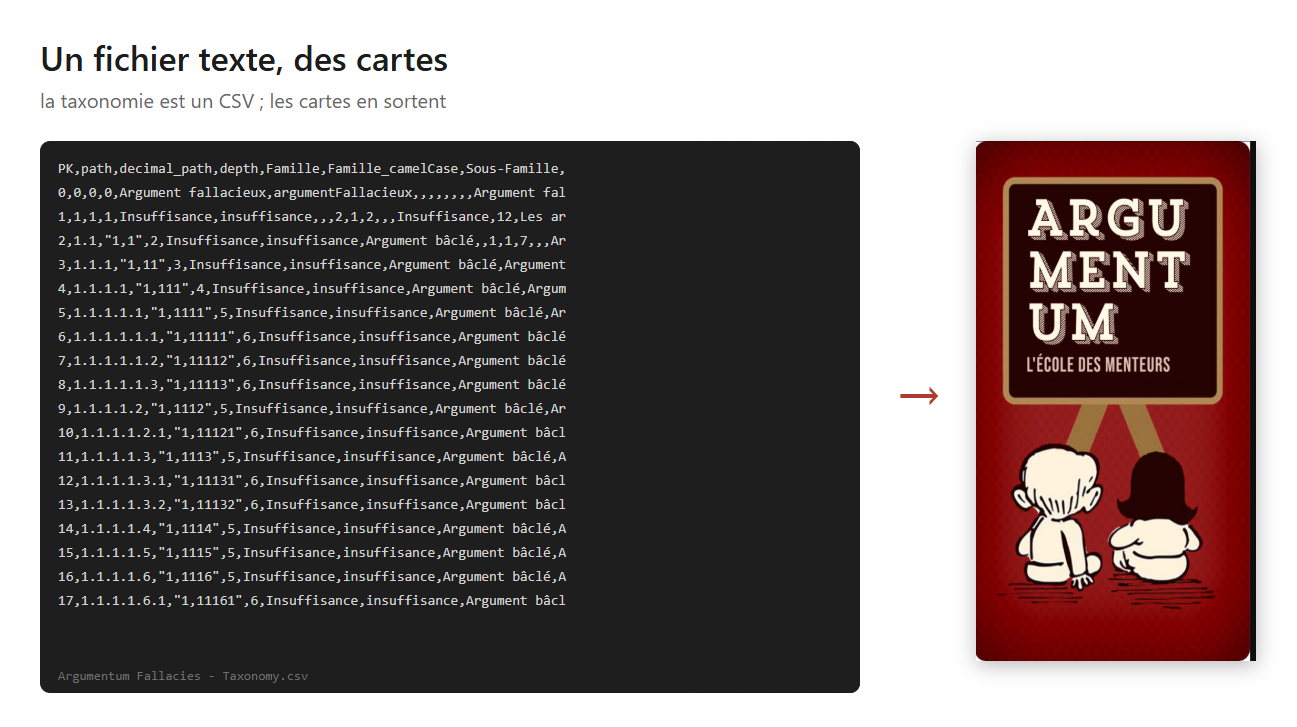
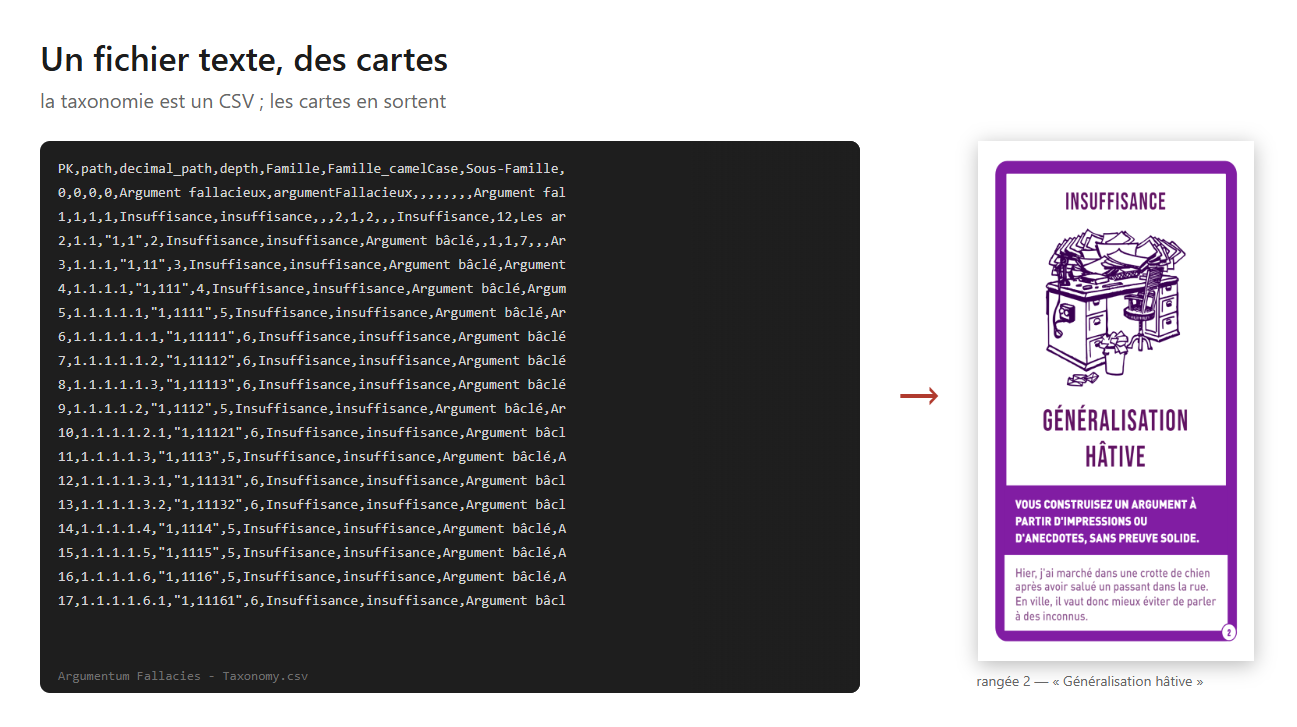
docs(2173): reprises 1a et 6c de la planche d'illustrations
Deux reprises demandees par la revue visuelle ai-01 (c.6890339774) :

1a — la carte de droite est desormais une carte de sophisme produite
par une rangee VISIBLE de l'extrait : la rangee 2 (path 1.1,
<< Generalisation hative >>), rendu reel de l'arbre Release
(argumentum_fallacies_1.1..generalisation_hative_face.png). La carte
de regles (rules_face_01.png) montrait une couverture que les lignes
affichees ne produisent pas. Legende ajoutee sous la carte nommant la
rangee. Dimensions natives inchangees (1297x727).

6c — nouveau candidat sans chiffres pour l'article 6 : recadrage x2
de la carte des liens (region 1595x1043 mesuree au rendu) autour
d'une fleche reliant deux familles eloignees, << Abus de langage >>
(5.3.3.3.2) vers << Tricherie >> (6.1.1), verbe IsRelatedTo du
depot. Fleche elargie x3,2 en epaisseur pour etre le sujet du cadre,
geometrie non retouchee. 41 libelles et 126 autres fleches dans le
cadre. Aucune carte de vertu, aucun chiffre.

README : source 1a reecrite, section 6c ajoutee, ligne 6c dans la
table de survie (facteurs 0,12 / 0,18, image d'article).

16 PNG au total, 3,96 Mio.

Changed region(s): [[0.7402, 0.1816, 0.9869, 0.9684]]

diff --git a/docs/publication/articles/illustrations/README.md b/docs/publication/articles/illustrations/README.md
@@ -27,8 +27,8 @@ Chaque ligne « Affichage » donne le facteur réel et ce qui survit à cette ta
 
 ![1a](1a-du-texte-a-la-carte.png)
 
-*Pourquoi :* l'article raconte ce trajet (§ « Comment naît une carte »). À gauche, dix-neuf lignes réelles de la taxonomie, en-tête compris ; à droite, la carte qu'elles produisent. Le sujet se lit sans un mot de légende.
-*Source :* `Cards/Fallacies/Argumentum Fallacies - Taxonomy.csv` (lignes réelles) et `rules_face_01.png` (rendu de la carte de règles) — montage.
+*Pourquoi :* l'article raconte ce trajet (§ « Comment naît une carte »). À gauche, dix-neuf lignes réelles de la taxonomie, en-tête compris ; à droite, la carte que l'une d'elles produit — la rangée `2,1.1`, visible dans l'extrait (4ᵉ ligne), produit la carte « Généralisation hâtive » rendue à côté. La légende sous la carte nomme la rangée.
+*Source :* `Cards/Fallacies/Argumentum Fallacies - Taxonomy.csv` (lignes réelles) et `argumentum_fallacies_1.1..généralisation_hâtive_face.png` (rendu réel de la carte de la rangée `2,1.1`, arbre Release du 22/08) — montage. Reprise du 15/11 : la carte de règles a été remplacée par cette carte de sophisme — les lignes affichées produisent des cartes de sophisme, pas la couverture des règles.
 
 ### 1b — les chiffres du dépôt
 
@@ -130,6 +130,13 @@ Chaque ligne « Affichage » donne le facteur réel et ce qui survit à cette ta
 *Pourquoi :* « la matière réelle, c'est le corpus : la taxonomie des sophismes, 1 408 nœuds ». Les sept familles et leurs poids réels, en barres.
 *Source :* `docs/ontology/aif-export/taxonomy-tree-edges.csv` (1 408 nœuds mesurés).
 
+### 6c — une flèche, deux familles
+
+![6c](6c-une-fleche-deux-familles.png)
+
+*Pourquoi :* l'article décrit des arguments qui s'attaquent entre eux : un discours en atteint un autre, et le lien ne se défait pas. Ici une flèche de la carte des liens traverse le cadre d'une famille à l'autre — « Abus de langage » vers « Tricherie » (chemins `5.3.3.3.2` → `6.1.1`, verbe `IsRelatedTo` du dépôt) — sans qu'aucun chiffre soit le sujet de l'image. La flèche a été élargie (×3,2 sur son épaisseur) pour être le sujet du cadrage ; sa géométrie est celle du dépôt, non retouchée.
+*Source :* `Cards/Fallacies/Mindmaps/fr/Fallacies_fr.links.svg`, recadrage ×2 (région 1 595 × 1 043 unités autour de la flèche, mesurée au rendu) ; 41 libellés et 126 autres flèches tombent dans le cadre.
+
 ---
 
 ## Article 7 — « Le site Argumentum, en huit langues »
@@ -187,6 +194,7 @@ Mesuré, pas supposé — facteur de réduction et verdict :
 | 5b | 1 346 | 0,29 | 0,43 | titre et deux gravures lisibles |
 | 6a | 1 100 | 0,35 | 0,53 | titre et trois nombres lisibles |
 | 6b | 1 100 | 0,35 | 0,53 | titre et sept barres lisibles |
+| 6c | 3 190 | 0,12 | 0,18 | le réseau et la flèche élargie se lisent, les libellés non — image d'article plutôt que de liste |
 | 7a | 1 200 | 0,33 | 0,48 | les huit codes se devinent ; la navigation ne se lit pas |
 | 7b | 1 200 | 0,33 | 0,48 | la page arabe se reconnaît à sa structure |
 | 7c | 227 | 1,72 | 2,55 | bandeau : à utiliser en petit, jamais en pleine largeur |
